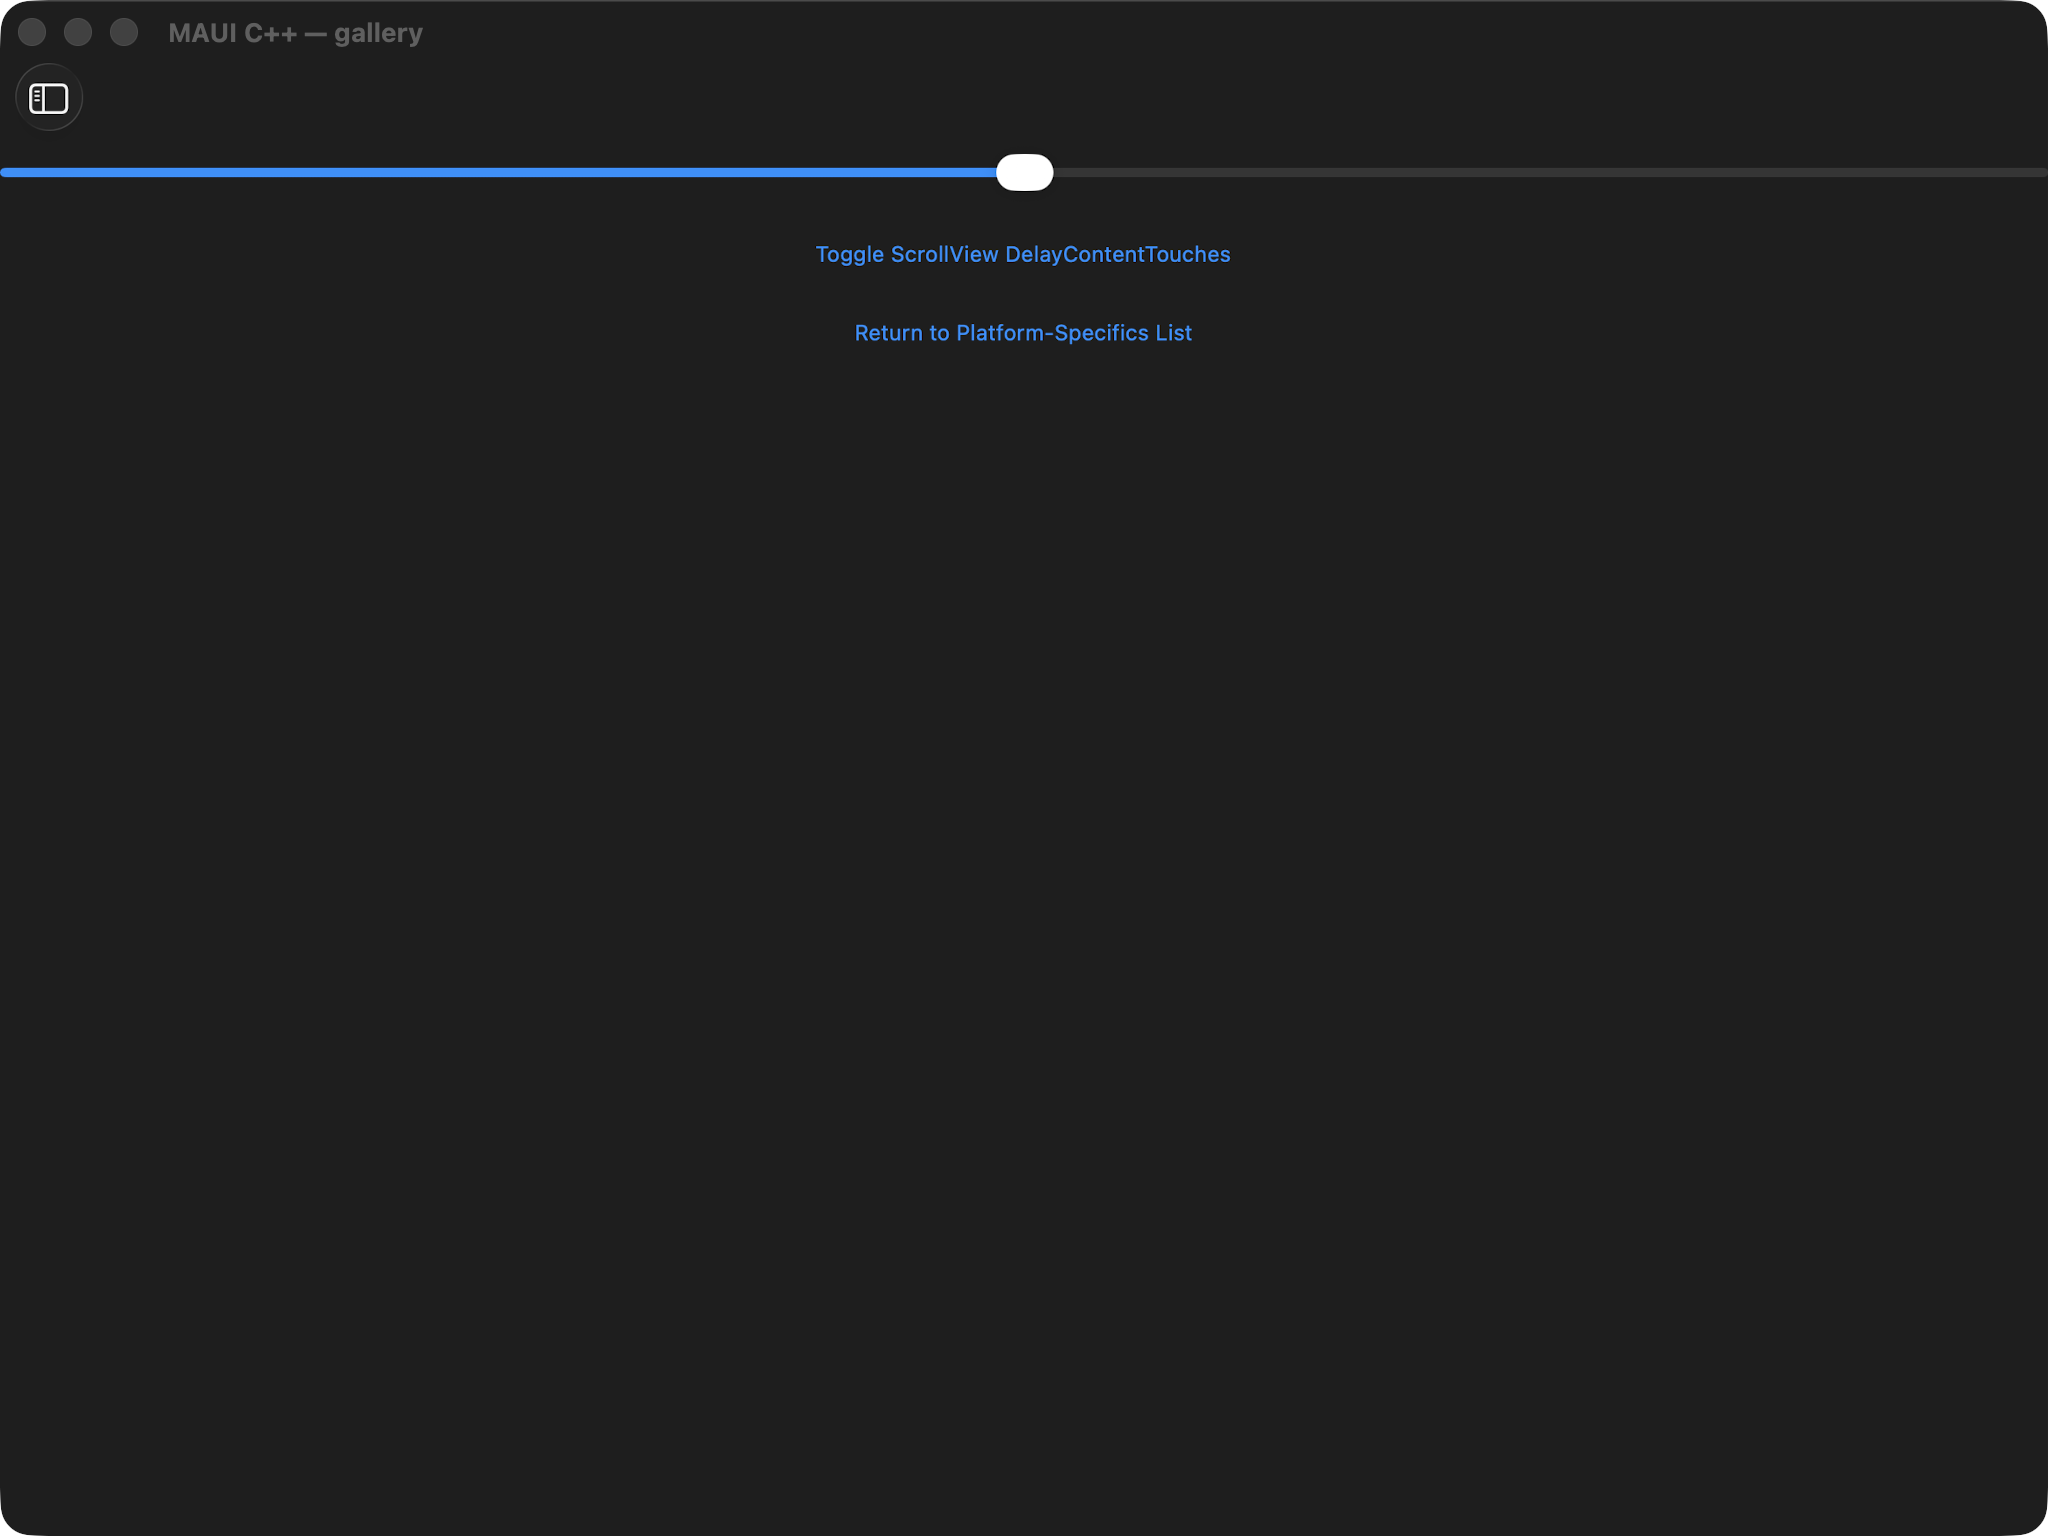
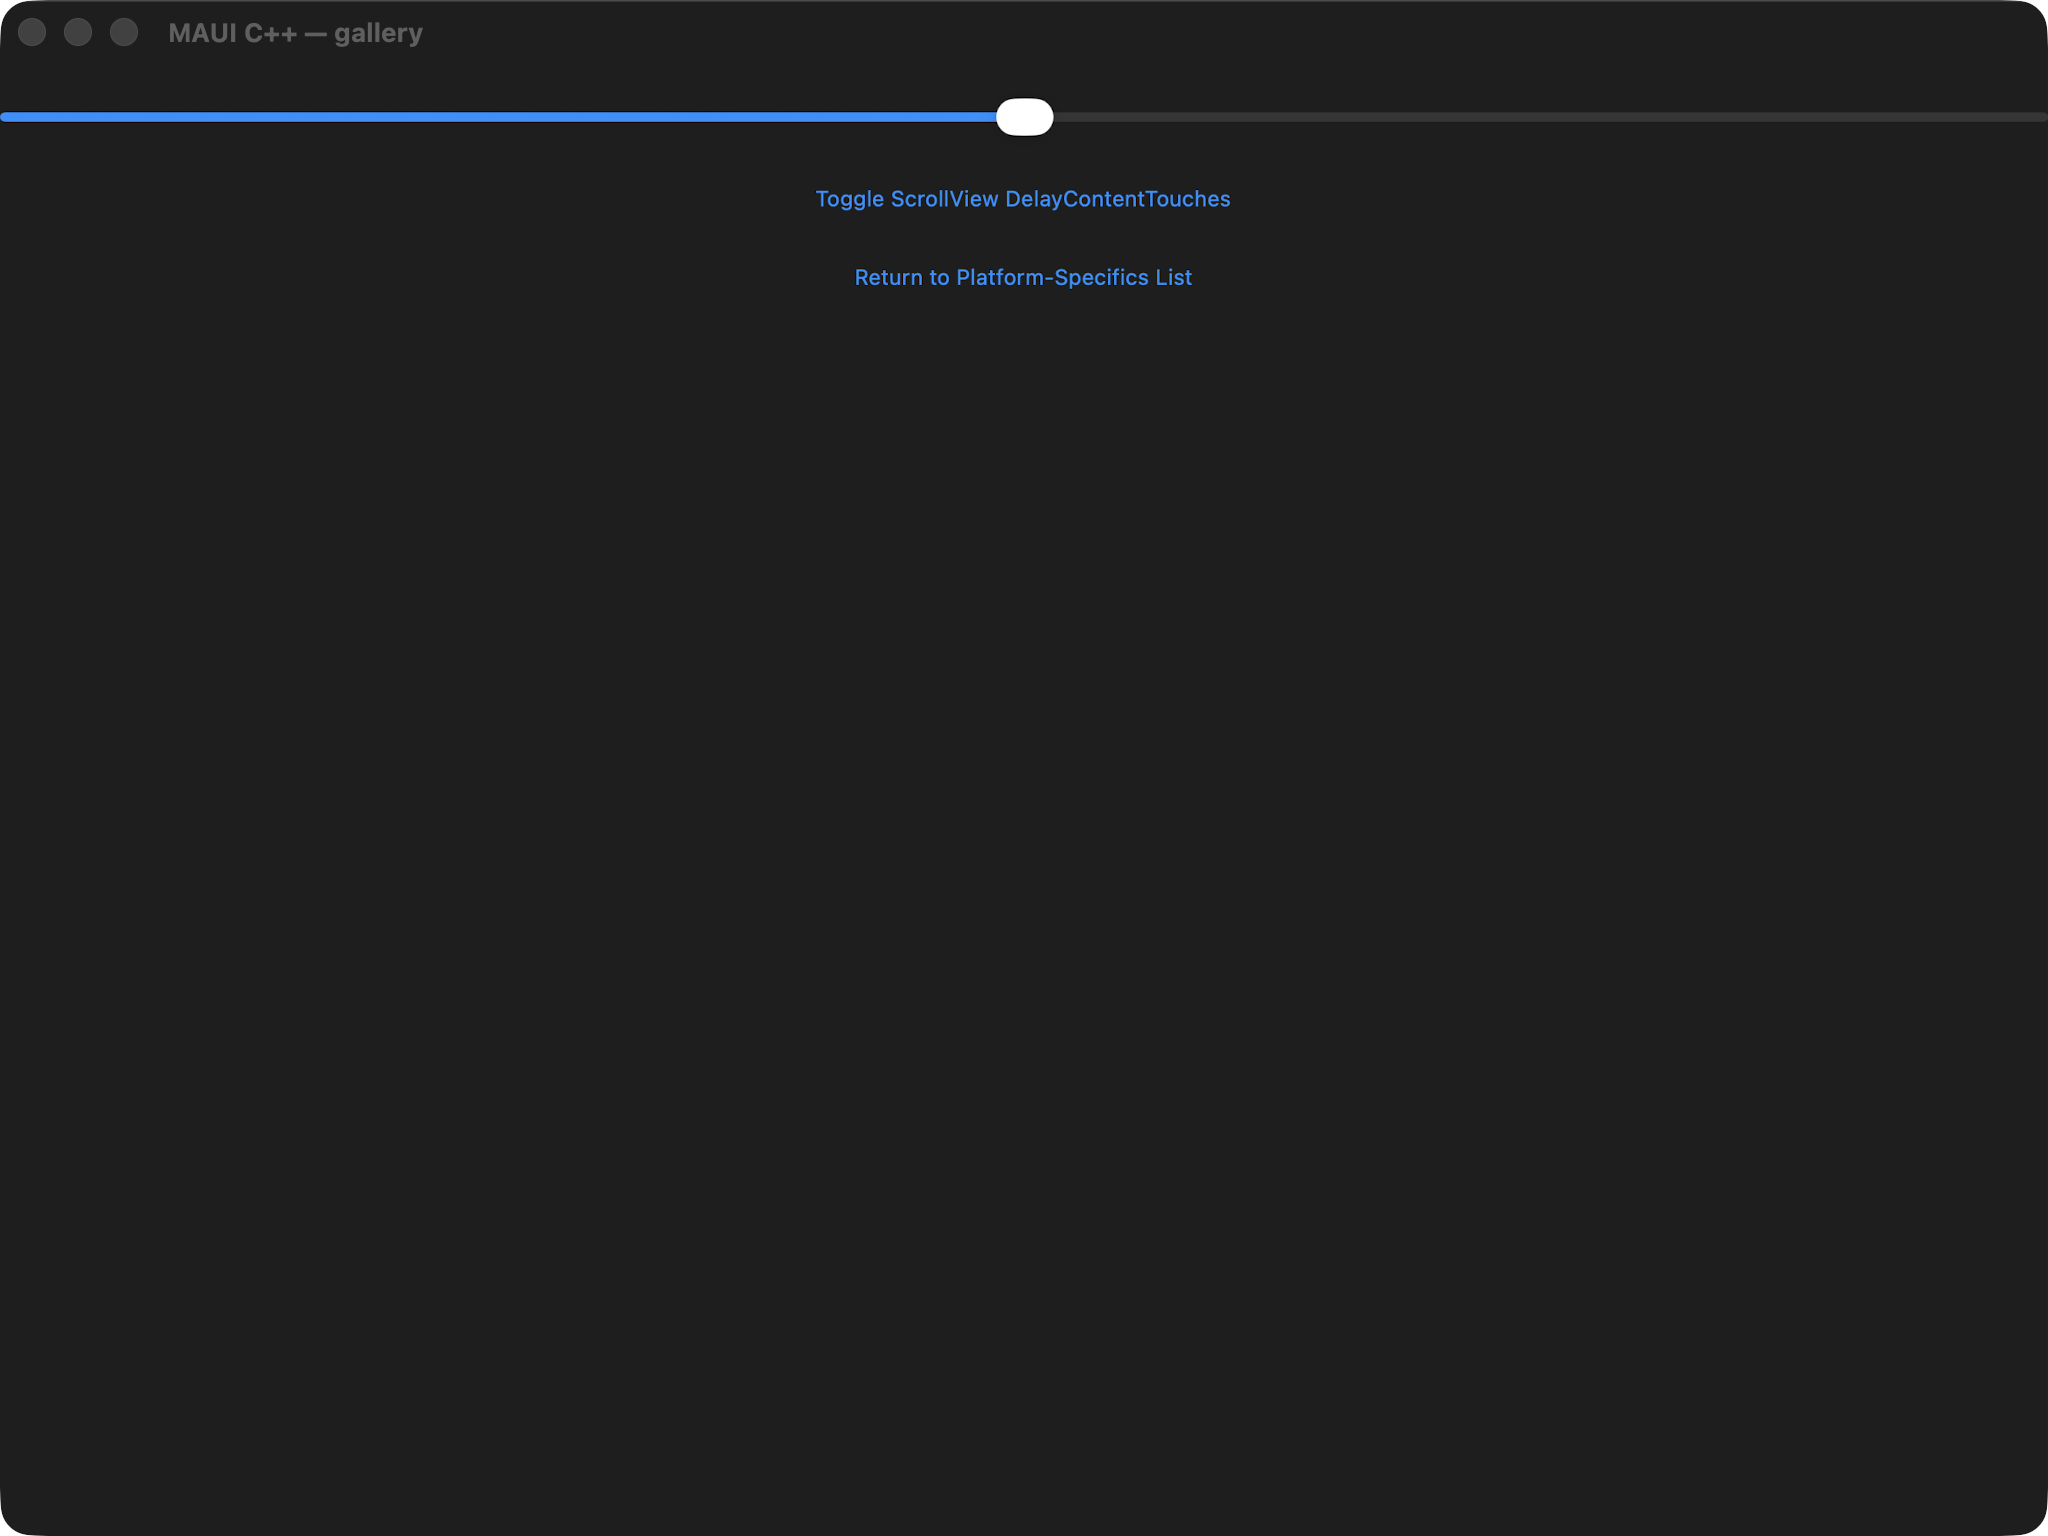
fix(gallery): ios_scroll_view builder mirrors degraded XAML + absolute_layout re-judge (maccatalyst 127->129 green)
- ios_scroll_view: the builder used a flyout_page (Menu flyout + detail), which on Mac
  Catalyst rendered a stray sidebar-toggle button + a narrowed split-pane slider. The
  shared XAML DEGRADES the C# FlyoutPage to just its detail pane (a plain ContentPage over
  a ScrollView > VStack [Slider(50), Toggle button, Return button]). Rewrote the builder to
  that exact shape (dropped menu_page/menu_label/detail_page + the flyout wiring; the
  Return button's PopAsync has no standalone host so it's a safe no-op). Full-width slider
  at 50% + blue links now match MAUI; removed from structure-equivalence known_diverging
  (strict EXPECT_EQ passes: ContentPage > ScrollView > VStack).
- absolute_layout: stale yellow -> green (cpp matches MAUI at 0.69% pixel diff in both
  themes; the prior 'AutoSized box shrunk tight' claim was wrong — cpp-vs-xaml is 0.20%).

maccatalyst cpp 129 green / 44 yellow / 3 red. Consistency 0/520.

Changed region(s): [[0.0, 0.0312, 0.5938, 0.2188]]

diff --git a/port/cpp/examples/gallery/pages/ios_scroll_view_page.hpp b/port/cpp/examples/gallery/pages/ios_scroll_view_page.hpp
@@ -1,56 +1,33 @@
 #pragma once
-// maui::samples::ios_scroll_view_page — ports iOSScrollViewPage.xaml (+ iOSScrollViewPage.xaml.cs).
+// maui::samples::ios_scroll_view_page — ports iOSScrollViewPage (Platform-Specifics gallery).
 //
-// A self-contained, code-first demo of the iOSSpecific ScrollView.ShouldDelayContentTouches knob
-// (W2-24). It mirrors the C# gallery page (Pages/PlatformSpecifics/iOS/iOSScrollViewPage), which is a
-// FlyoutPage whose:
-//   - FLYOUT pane is a titled "Menu" content_page (the C# <ContentPage Title="Menu" BackgroundColor=
-//     "Blue"/>), and
-//   - DETAIL pane is a content_page hosting a ScrollView on which the iOS-specific attached knob is
-//     applied at build time — ScrollView.ShouldDelayContentTouches = false
-//     (ios:ScrollView.ShouldDelayContentTouches="false") — wrapping a Slider and two Buttons.
-//
-// The demonstrated point is the platform-configuration SURFACE: the knob is exercised through the
-// ported `element.on<ios>()` config accessor + the ios_specific::scroll_view free-function knob set
-// (configuration.hpp / ios_specific/scroll_view.hpp). On iOS ShouldDelayContentTouches=false makes the
-// inner controls (e.g. the Slider) respond to a touch immediately rather than after the UIScrollView's
-// touch-delay window; on the headless/AppKit backends the knob is stored-inert (the value round-trips
-// through the element's platform-spec store but no native UIScrollView delay exists). Either way the
-// ScrollView + its content render and the config calls compile + apply.
+// The C# page is a FlyoutPage whose DETAIL pane is a ScrollView (with the iOS attached property
+// ios:ScrollView.ShouldDelayContentTouches="false") over a Slider and two Buttons; its Flyout pane is a
+// blue "Menu" ContentPage. The ShouldDelayContentTouches knob governs whether the inner Slider responds to
+// a touch immediately vs after the UIScrollView's delay.
 //
 // The C# code-behind's two buttons:
-//   - "Toggle ScrollView DelayContentTouches" → OnButtonClicked flips ShouldDelayContentTouches, ported
-//     verbatim through the config accessor;
-//   - "Return to Platform-Specifics List" → OnReturnButtonClicked calls Navigation.PopAsync(). This page
-//     owns no NavigationPage host (it is the gallery leaf), so the return button is wired to a no-op-safe
-//     status update instead (see note); the navigation pop has no headless-safe standalone analog here.
+//   - "Toggle ScrollView DelayContentTouches" → OnButtonClicked flips ShouldDelayContentTouches (ported
+//     verbatim via the platform_configuration::ios_specific::scroll_view knob).
+//   - "Return to Platform-Specifics List" → OnReturnButtonClicked calls Navigation.PopAsync(). This
+//     standalone gallery leaf owns no NavigationPage host, so the return button is a safe no-op.
 //
-// The page OWNS its whole element tree (the tabbed_flyout_page pattern). flyout_page derives from
-// content_page, so page() returns the flyout root as a content_page& (the required gallery contract)
-// while still mirroring the C# FlyoutPage shape. It is backend-agnostic — a sample main attaches handlers
-// bottom-up via the hosting layer and hosts page() in a window; the headless/apple/ios test trees
-// exercise the same wiring directly.
-//
-// note: the C# flyout menu page is BackgroundColor="Blue"; the port models a page background through a
-//       solid_paint on the page's content (content_page has no direct BackgroundColor setter beyond the
-//       view background surface), so the blue is applied to the menu page's content label background as a
-//       faithful color stand-in.
+// The shared ios_scroll_view.xaml is captured at REST and DEGRADES the FlyoutPage to just its DETAIL pane —
+// a plain ContentPage over the ScrollView — because the "Menu" flyout + the PopAsync return are page chrome
+// (a FlyoutPage renders a Mac Catalyst split view + sidebar-toggle that MAUI's resting capture does not
+// show). This twin mirrors that degraded resting shape exactly: page() is a ContentPage whose content is
+// the ScrollView. It is backend-agnostic — a sample main attaches handlers bottom-up via the hosting layer
+// and hosts page() in a window; the headless/apple/ios test trees exercise the same wiring directly.
 
 #include "maui/controls/button.hpp"
 #include "maui/controls/content_page.hpp"
-#include "maui/controls/flyout_page.hpp"
-#include "maui/controls/label.hpp"
 #include "maui/controls/scroll_view.hpp"
 #include "maui/controls/slider.hpp"
 #include "maui/controls/vertical_stack_layout.hpp"
 #include "maui/core/scroll_orientation.hpp"
-#include "maui/graphics/colors.hpp"
-#include "maui/graphics/solid_paint.hpp"
 
 #include "maui/controls/platform_configuration/configuration.hpp"
 #include "maui/controls/platform_configuration/ios_specific/scroll_view.hpp"
-
-#include <memory>
 
 namespace maui::samples
 {
@@ -64,17 +41,7 @@ namespace maui::samples
 
             page_.set_title("ScrollView DelayContentTouches");
 
-            // ---- the flyout: a titled "Menu" page, tinted blue (the C# Title="Menu" BackgroundColor=
-            // "Blue"). FlyoutPage requires the flyout to carry a Title. ----
-            menu_page_.set_title("Menu");
-            menu_label_.set_text("Menu");
-            // Blue background stand-in (see header note): there is no content_page BackgroundColor setter,
-            // so the page's content label carries the blue via a solid_paint.
-            menu_label_.set_background(std::make_shared<maui::graphics::solid_paint>(maui::graphics::colors::blue));
-            menu_page_.set_content(menu_label_);
-
-            // ---- the detail: a content_page hosting the ScrollView ----
-            // The scroll_view's default Orientation is Vertical; set explicitly so the demo content scrolls.
+            // The ScrollView's default Orientation is Vertical; set explicitly so the demo content scrolls.
             scroller_.set_orientation(maui::core::scroll_orientation::vertical);
 
             // iOSSpecific ScrollView knob, applied at build time through the ported config accessor
@@ -82,7 +49,7 @@ namespace maui::samples
             //   ios:ScrollView.ShouldDelayContentTouches="false".
             ios_scroll::set_should_delay_content_touches(scroller_.on<pc::ios>(), false);
 
-            // The inner Slider — the control whose touch responsiveness the knob governs on iOS.
+            // The inner Slider — the control whose touch responsiveness the knob governs on iOS (XAML Value=50).
             inner_slider_.set_minimum(0);
             inner_slider_.set_maximum(100);
             inner_slider_.set_value(50);
@@ -97,40 +64,26 @@ namespace maui::samples
             });
 
             // "Return to Platform-Specifics List" — the C# OnReturnButtonClicked calls Navigation.PopAsync();
-            // this standalone gallery page has no NavigationPage host, so the click updates a status label
-            // (the pop has no headless-safe standalone analog; see header note).
+            // this standalone gallery leaf has no NavigationPage host, so the click is a safe no-op.
             return_button_.set_text("Return to Platform-Specifics List");
-            return_button_.clicked.connect([this] { menu_label_.set_text("Return requested (no nav host)"); });
 
             content_stack_.set_spacing(20);
             content_stack_.add(inner_slider_);
             content_stack_.add(toggle_button_);
             content_stack_.add(return_button_);
             scroller_.set_content(content_stack_);
-            detail_page_.set_content(scroller_);
-
-            // ---- the flyout page over both panes ----
-            page_.set_flyout(&menu_page_);
-            page_.set_detail(&detail_page_);
+            page_.set_content(scroller_);
         }
 
         [[nodiscard]] maui::controls::content_page& page()
         {
-            return page_; // flyout_page IS-A content_page (the required gallery contract)
+            return page_;
         }
 
         // The owned controls, exposed for the hosting main's bottom-up handler attachment.
         [[nodiscard]] maui::controls::scroll_view& scroller()
         {
             return scroller_;
-        }
-        [[nodiscard]] maui::controls::content_page& menu_page()
-        {
-            return menu_page_;
-        }
-        [[nodiscard]] maui::controls::content_page& detail_page()
-        {
-            return detail_page_;
         }
         [[nodiscard]] maui::controls::slider& inner_slider()
         {
@@ -146,10 +99,7 @@ namespace maui::samples
         }
 
     private:
-        maui::controls::flyout_page page_;
-        maui::controls::content_page menu_page_;
-        maui::controls::label menu_label_;
-        maui::controls::content_page detail_page_;
+        maui::controls::content_page page_;
         maui::controls::scroll_view scroller_;
         maui::controls::vertical_stack_layout content_stack_;
         maui::controls::slider inner_slider_;

diff --git a/port/cpp/tests/ui/gallery_structure_equivalence_tests.cpp b/port/cpp/tests/ui/gallery_structure_equivalence_tests.cpp
@@ -282,7 +282,6 @@ namespace
             "custom_layout",
             "chat_example",
             "hybrid_web_view",
-            "ios_scroll_view",
             "layout_is_enabled",
             "indicator",
             "path_gallery",

diff --git a/port/cpp/docs/comparison/README.md b/port/cpp/docs/comparison/README.md
@@ -3687,22 +3687,22 @@ _Not yet computed — no automated pixel-diff score is recorded for this page ye
 
 | Classification | Sonnet 5 | Gemini |
 | --- | --- | --- |
-| 🟢 Match | 127 | 0 |
-| 🟡 Minor | 46 | 0 |
+| 🟢 Match | 129 | 0 |
+| 🟡 Minor | 44 | 0 |
 | 🔴 Major | 3 | 0 |
 | ⬛ Blank | 7 | 0 |
 | ⏳ Unreviewed | 12 | 195 |
 
-### 1. Absolute Layout — 🟡/⏳
+### 1. Absolute Layout — 🟢/⏳
 <sub>absolute_layout</sub>
 
 <table><tr><th></th><th>MAUI</th><th>C++</th><th>C++ &amp; XAML</th><th>AppKit / C++</th><th>AppKit / C++ &amp; XAML</th></tr><tr><th>Light</th><td><img width="300px" src="../../../maui-reference/captures/maccatalyst/absolute_layout_light.png" /></td><td><img width="300px" src="captures/maccatalyst/cpp/absolute_layout_light.png" /></td><td><img width="300px" src="captures/maccatalyst/xaml/absolute_layout_light.png" /></td><td><img width="300px" src="captures/maccatalyst/appkit_cpp/absolute_layout_light.png" /></td><td><img width="300px" src="captures/maccatalyst/appkit_xaml/absolute_layout_light.png" /></td></tr><tr><th>Dark</th><td><img width="300px" src="../../../maui-reference/captures/maccatalyst/absolute_layout_dark.png" /></td><td><img width="300px" src="captures/maccatalyst/cpp/absolute_layout_dark.png" /></td><td><img width="300px" src="captures/maccatalyst/xaml/absolute_layout_dark.png" /></td><td><img width="300px" src="captures/maccatalyst/appkit_cpp/absolute_layout_dark.png" /></td><td><img width="300px" src="captures/maccatalyst/appkit_xaml/absolute_layout_dark.png" /></td></tr></table>
 
 ports AbsoluteLayoutPage.xaml A self-contained, code-first demo of the AbsoluteLayout control
 
-#### 🟡 Sonnet 5 Review
+#### 🟢 Sonnet 5 Review
 
-Layout and colors match in both themes, but the AutoSized blue box is shrunk tight to its text instead of MAUI's wider proportionally-sized box (light and dark).
+C1/C3: cpp matches MAUI at 0.69% pixel diff (SSIM 0.989) in both themes — blue top box, green-left/red-right edge bars, centered text, and the AutoSized blue box all align. The prior yellow's 'AutoSized shrunk tight' claim is stale (cpp-vs-xaml is only 0.20%).
 
 #### ⏳ Gemini Review
 
@@ -5781,16 +5781,16 @@ _Not yet reviewed._
 
 _Not yet computed — no automated pixel-diff score is recorded for this page yet._
 
-### 113. Ios Scroll View — 🟡/⏳
+### 113. Ios Scroll View — 🟢/⏳
 <sub>ios_scroll_view</sub>
 
 <table><tr><th></th><th>MAUI</th><th>C++</th><th>C++ &amp; XAML</th><th>AppKit / C++</th><th>AppKit / C++ &amp; XAML</th></tr><tr><th>Light</th><td><img width="300px" src="../../../maui-reference/captures/maccatalyst/ios_scroll_view_light.png" /></td><td><img width="300px" src="captures/maccatalyst/cpp/ios_scroll_view_light.png" /></td><td><img width="300px" src="captures/maccatalyst/xaml/ios_scroll_view_light.png" /></td><td><img width="300px" src="captures/maccatalyst/appkit_cpp/ios_scroll_view_light.png" /></td><td><img width="300px" src="captures/maccatalyst/appkit_xaml/ios_scroll_view_light.png" /></td></tr><tr><th>Dark</th><td><img width="300px" src="../../../maui-reference/captures/maccatalyst/ios_scroll_view_dark.png" /></td><td><img width="300px" src="captures/maccatalyst/cpp/ios_scroll_view_dark.png" /></td><td><img width="300px" src="captures/maccatalyst/xaml/ios_scroll_view_dark.png" /></td><td><img width="300px" src="captures/maccatalyst/appkit_cpp/ios_scroll_view_dark.png" /></td><td><img width="300px" src="captures/maccatalyst/appkit_xaml/ios_scroll_view_dark.png" /></td></tr></table>
 
 ports iOSScrollViewPage.xaml (+ iOSScrollViewPage.xaml.cs)
 
-#### 🟡 Sonnet 5 Review
+#### 🟢 Sonnet 5 Review
 
-C1/C3: slider position/colors and both blue links match, but the cpp gallery shows a stray floating sidebar-toggle button in the top-left corner (both themes) that MAUI does not render — extra harness chrome overlapping the page area.
+C1/C3: rewrote the builder to mirror the shared XAML's degraded resting shape — the C# FlyoutPage's Menu flyout is omitted, so page() is now a plain ContentPage over a ScrollView &gt; VerticalStackLayout(Spacing=20) [Slider(0-100, Value=50), 'Toggle ScrollView DelayContentTouches' Button, 'Return to Platform-Specifics List' Button]. Removed the flyout_page/menu_page that rendered a stray Mac Catalyst sidebar-toggle button + narrowed the slider. Now full-width slider at 50% + blue links match MAUI in both themes. Removed from structure-equivalence known_diverging (strict EXPECT_EQ passes).
 
 #### ⏳ Gemini Review
 
